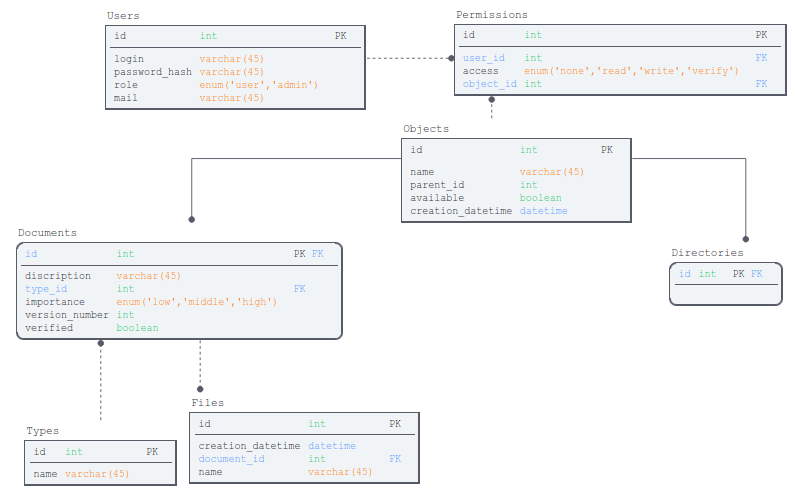
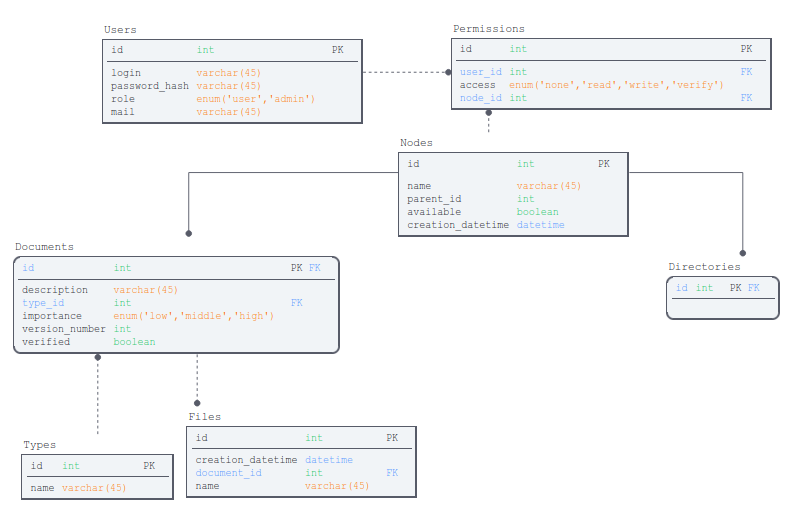
Corrected data schema and permission class

diff --git a/core/src/main/java/com/shandakova/documents/entities/Permission.java b/core/src/main/java/com/shandakova/documents/entities/Permission.java
@@ -9,7 +9,7 @@ import lombok.Setter;
 public class Permission {
     private int id;
     private int userId;
-    private int objectId;
+    private int nodeId;
     private Access access;
 
 }
